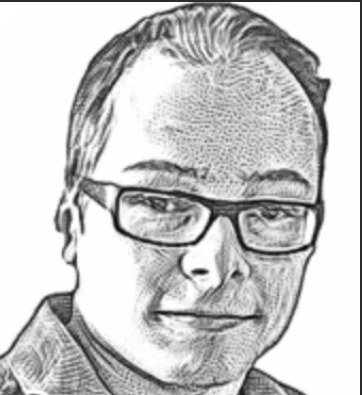
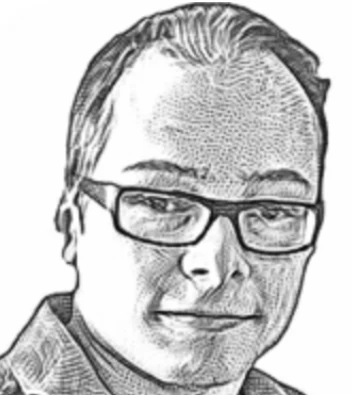
bw image

Changed region(s): [[0.0, 0.0, 1.0, 1.0]]

diff --git a/_layouts/default.html b/_layouts/default.html
@@ -18,7 +18,7 @@
     <div style="max-width: 1024px; width: 98.5%;">
         <table>
             <tr>
-                <td><img src="/map-face-mirror.webp" alt="Vaclav Kosar's face photo" style="border-radius: 50%; width: 70px"></td>
+                <td><img src="/face-map-ai-portrait-square.webp" alt="Vaclav Kosar's face photo" style="border-radius: 50%; width: 70px"></td>
                 <td>
                     <h5>Vaclav Kosar</h5>
                     <i>{{ site.description }}</i>
